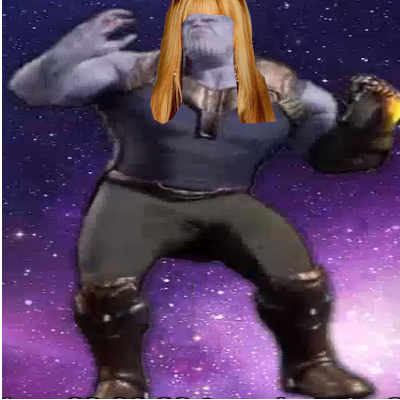
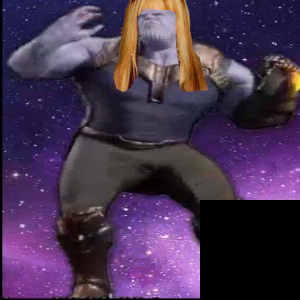
Add files via upload

diff --git a/scripts/mainScript.js b/scripts/mainScript.js
@@ -1,20 +1,120 @@
-window.onload = function () {
-    $("#fadeBlackScreen").fadeOut(3000);
-}
+var selectedSquare;
+
+var solvedgame = [
+    1, 2, 3,
+    4, 5, 6,
+    7, 8, 9,
+]
 
 var game = [
-    1, 2, 3, 4,
-    5, 6, 7, 8,
-    9, 10, 11, 12,
-    13, 14, 15, 16
+    2, 1, 5,
+    4, 3, 6,
+    7, 8, 9,
 ]
 
 function loadGame() {
     $("#main-menu").fadeOut(600);
     $("#gameScreen").fadeIn(600);
 
+    draw();
 
-    for(var i = 0; i<16; i++){
-    $("#squarePos" + game[i - 1]).css("background", "url('media/" + i + ".png')");
-    }
 }
+
+function draw() {
+    $('#gameArea').empty();
+
+    game.forEach(function (entry) {
+        $("#gameArea").append("<div id='squarePos" + entry + "' class='squareNS'></div>");
+    });
+
+    for (var i = 0; i < 10; i++) {
+        $("#squarePos" + i).css("background", "url('media/" + i + ".jpg')");
+    }
+
+    $(".squareNS").click(function () {
+        if ($(this)[0].id != "squarePos9") {
+            for (var i = 0; i < 10; i++) {
+                $("#squarePos" + game[i - 1]).removeClass('squareS').addClass('squareNS');
+            }
+            selectedSquare = $(this);
+            $(this).removeClass('squareNS').addClass('squareS');
+        }
+    });
+
+    $("#squarePos" + 9).click(function () {
+        for (var i = 0; i < 10; i++) {
+            $("#squarePos" + game[i - 1]).removeClass('squareS').addClass('squareNS');
+        }
+        if (selectedSquare != null) {
+            var selectedNumber = parseInt(selectedSquare[0].id.replace("squarePos", ""));
+            if (selectedNumber == game[game.indexOf(9) + 1]) {
+
+
+                var gameCopy = game;
+
+                gameCopy[game.indexOf(selectedNumber)] = 9;
+                gameCopy[gameCopy.indexOf(9)] = selectedNumber;
+
+                game = gameCopy;
+
+                selectedSquare = null;
+            } else if (selectedNumber == game[game.indexOf(9) - 1]) {
+
+
+                var gameCopy = game;
+
+
+                gameCopy[gameCopy.indexOf(9)] = selectedNumber;
+                gameCopy[game.indexOf(selectedNumber)] = 9;
+
+
+                game = gameCopy;
+
+                selectedSquare = null;
+            } else if (selectedNumber == game[game.indexOf(9) - 3]) {
+
+
+                var gameCopy = game;
+
+
+                gameCopy[gameCopy.indexOf(9)] = selectedNumber;
+                gameCopy[game.indexOf(selectedNumber)] = 9;
+
+
+                game = gameCopy;
+
+                selectedSquare = null;
+            } else if (selectedNumber == game[game.indexOf(9) + 3]) {
+
+
+                var gameCopy = game;
+
+
+                gameCopy[game.indexOf(selectedNumber)] = 9;
+                gameCopy[gameCopy.indexOf(9)] = selectedNumber;
+                
+
+
+                game = gameCopy;
+
+                selectedSquare = null;
+            }
+
+
+
+        }
+        draw();
+    });
+
+}
+
+window.onload = function () {
+    $("#fadeBlackScreen").fadeOut(3000);
+}
+
+setInterval(function(){
+    if(game.toString() == solvedgame.toString()){
+       game = [];
+       window.location = "";
+    }
+}, 10000);

diff --git a/index.html b/index.html
@@ -3,7 +3,7 @@
 
 <head>
   <meta charset='utf-8'>
-  <title>MG0412</title>
+  <title>ThanosTanna</title>
   <link rel="shortcut icon" href="icons/icon.ico" />
   <meta name='viewport' content='width=device-width, initial-scale=1'>
   <link rel='stylesheet' type='text/css' href='style/style-fonts.css'>
@@ -47,26 +47,10 @@
     </div>
 
     <div id="gameScreen" style="display: none;">
+      <div id="imagemRef"></div>
       <div id="gameArea">
-        <div id="squarePos1" class="squareS"></div>
-        <div id="squarePos2" class="squareS"></div>
-        <div id="squarePos3" class="squareS"></div>
-        <div id="squarePos4" class="squareS"></div>
 
-        <div id="squarePos5" class="squareS"></div>
-        <div id="squarePos6" class="squareS"></div>
-        <div id="squarePos7" class="squareS"></div>
-        <div id="squarePos8" class="squareS"></div>
-        
-        <div id="squarePos9" class="squareS"></div>
-        <div id="squarePos10" class="squareS"></div>
-        <div id="squarePos11" class="squareS"></div>
-        <div id="squarePos12" class="squareS"></div>
 
-        <div id="squarePos13" class="squareS"></div>
-        <div id="squarePos14" class="squareS"></div>
-        <div id="squarePos15" class="squareS"></div>
-        <div id="squarePos16" class="squareS"></div>
       </div>
     </div>
 

diff --git a/style/style.css b/style/style.css
@@ -77,16 +77,39 @@ body {
     left: 50%;
     top: 50%;
     transform: translate(-50%, -50%);
-    width: 430px;
+    width: 320px;
     box-shadow: 0 0 30px rgba(0, 0, 0, 0.521);
     text-align: center;
 }
 
-.squareS{
+.squareNS{
     display: inline-block;
     vertical-align: top;
     background: rgb(8, 8, 8);
     width: 100px;
     height: 100px;
     margin: 1px;
+}
+
+
+
+.squareS{
+    display: inline-block;
+    vertical-align: top;
+    background: rgb(8, 8, 8);
+    border: solid rgb(255, 255, 255) 1px;
+    width: 100px;
+    height: 100px;
+    margin: 1px;
+}
+
+#imagemRef{
+    position: absolute;
+    right: 0;
+    width: 150px;
+    height: 150px;
+    background: url("../media/Level01.png");
+    background-size: cover;
+    background-position: center;
+    background-repeat: no-repeat;
 }
